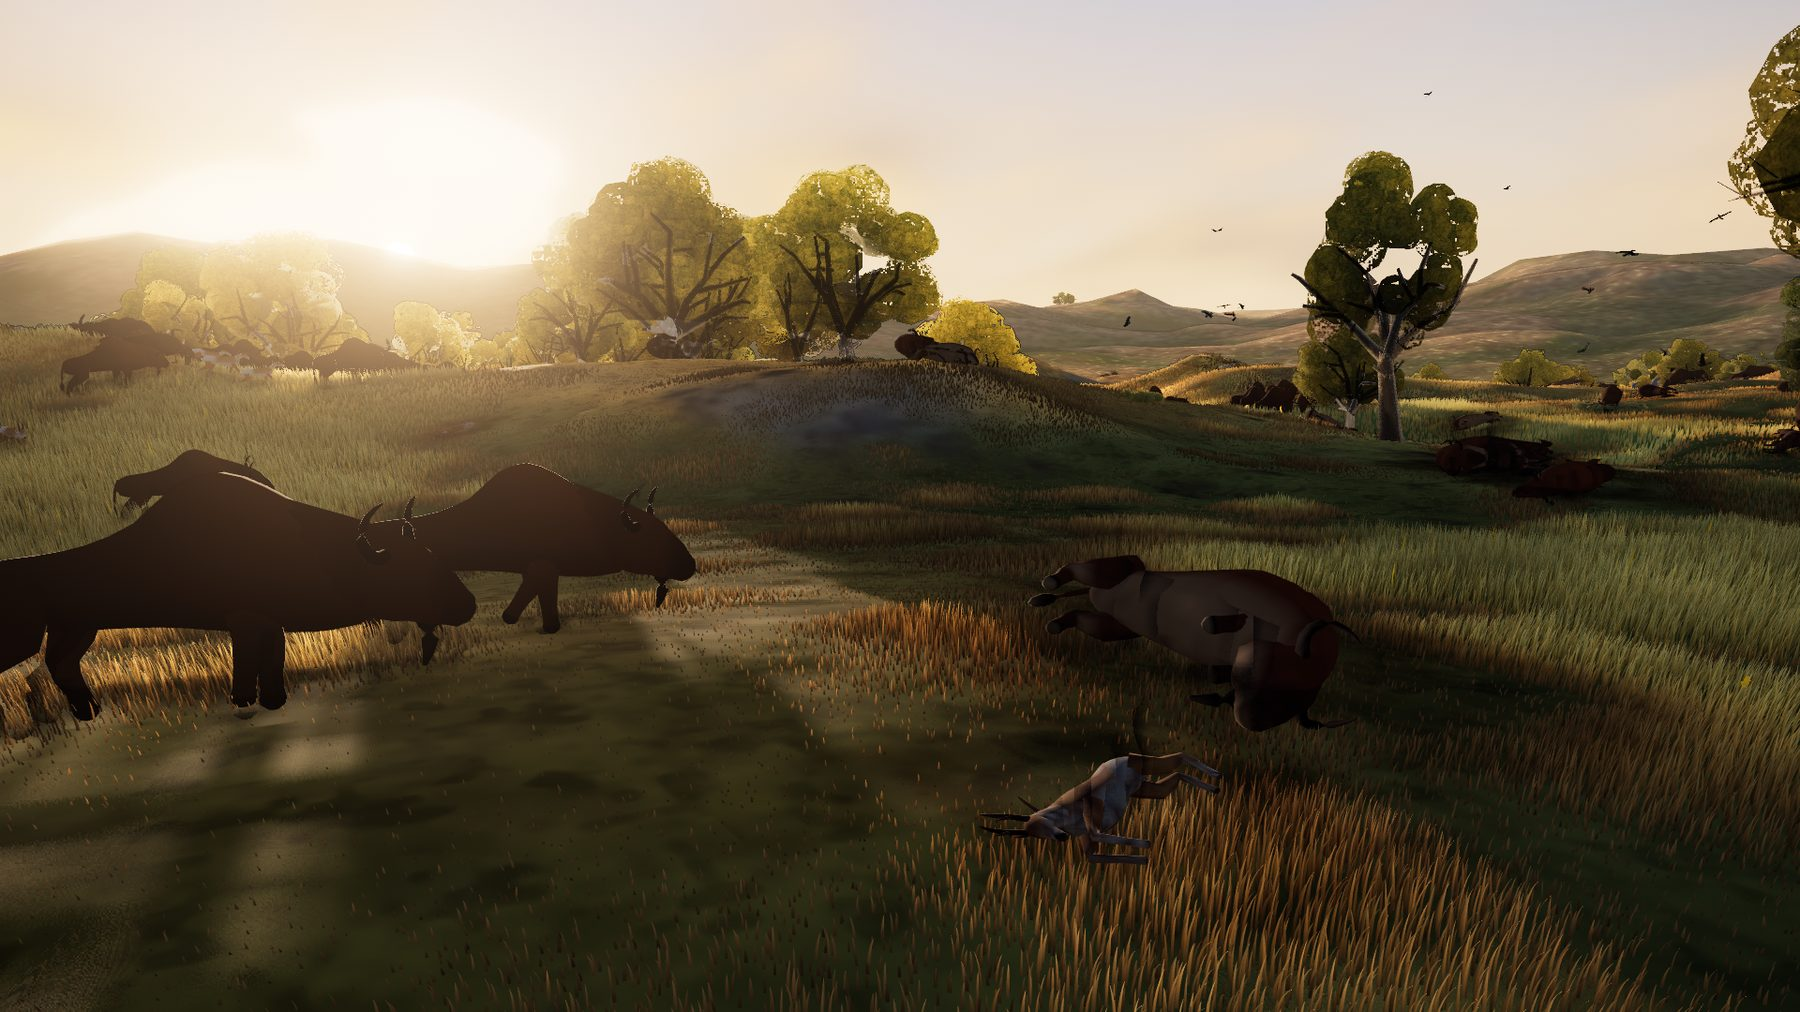
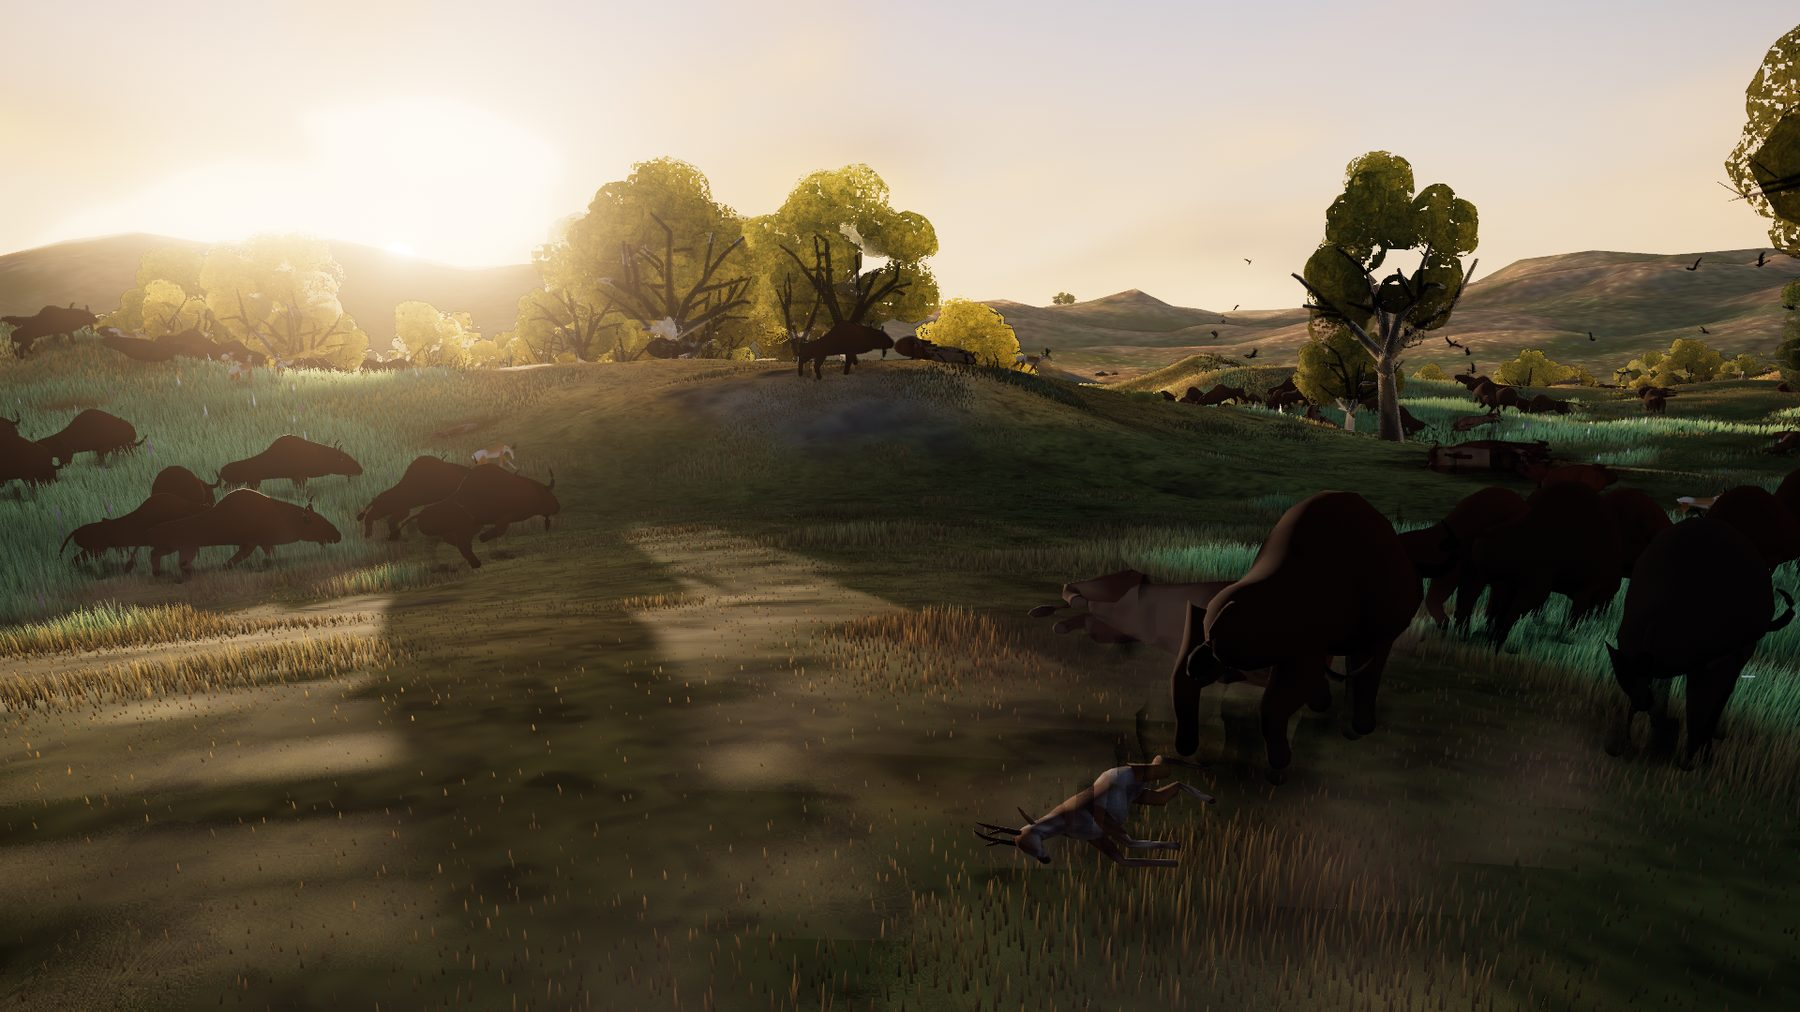
Landing page: fresh stills from the current build (winter dawn, new water)

diff --git a/landing/tallgrass.html b/landing/tallgrass.html
@@ -104,14 +104,14 @@ footer { padding-inline: clamp(16px, 4vw, 48px); padding-block: 28px 40px; max-w
 <main>
   <section class="chapter" aria-labelledby="watch">
     <figure>
-      <img src="valley.jpg" alt="The valley from above at golden hour: a winding creek, cottonwood groves and scattered bison herds" loading="lazy">
-      <figcaption>The valley at golden hour, from the drone.</figcaption>
+      <img src="valley.jpg" alt="Winter dawn over the valley: patchy snow, bare cottonwoods along a dark creek, and a bison herd strung along its banks" loading="lazy">
+      <figcaption>Winter dawn: snow in the hollows and the herd along the creek.</figcaption>
     </figure>
     <div>
       <p class="kicker">Watch</p>
       <h2 id="watch">It films itself</h2>
       <p>Leave it alone and a documentary camera takes over. It cuts between hunts, kills, herds and wide vistas, and a narrator speaks when something big happens: a drought settling in, a stampede, a new pack taking a range.</p>
-      <p>Seasons turn every thirty seconds at normal speed. Grass greens and cures, snow comes and goes, and a valley year passes in two minutes.</p>
+      <p>Seasons turn every thirty seconds at normal speed. Grass greens and cures, snow settles in the hollows and melts, and a valley year passes in two minutes.</p>
     </div>
   </section>
 
